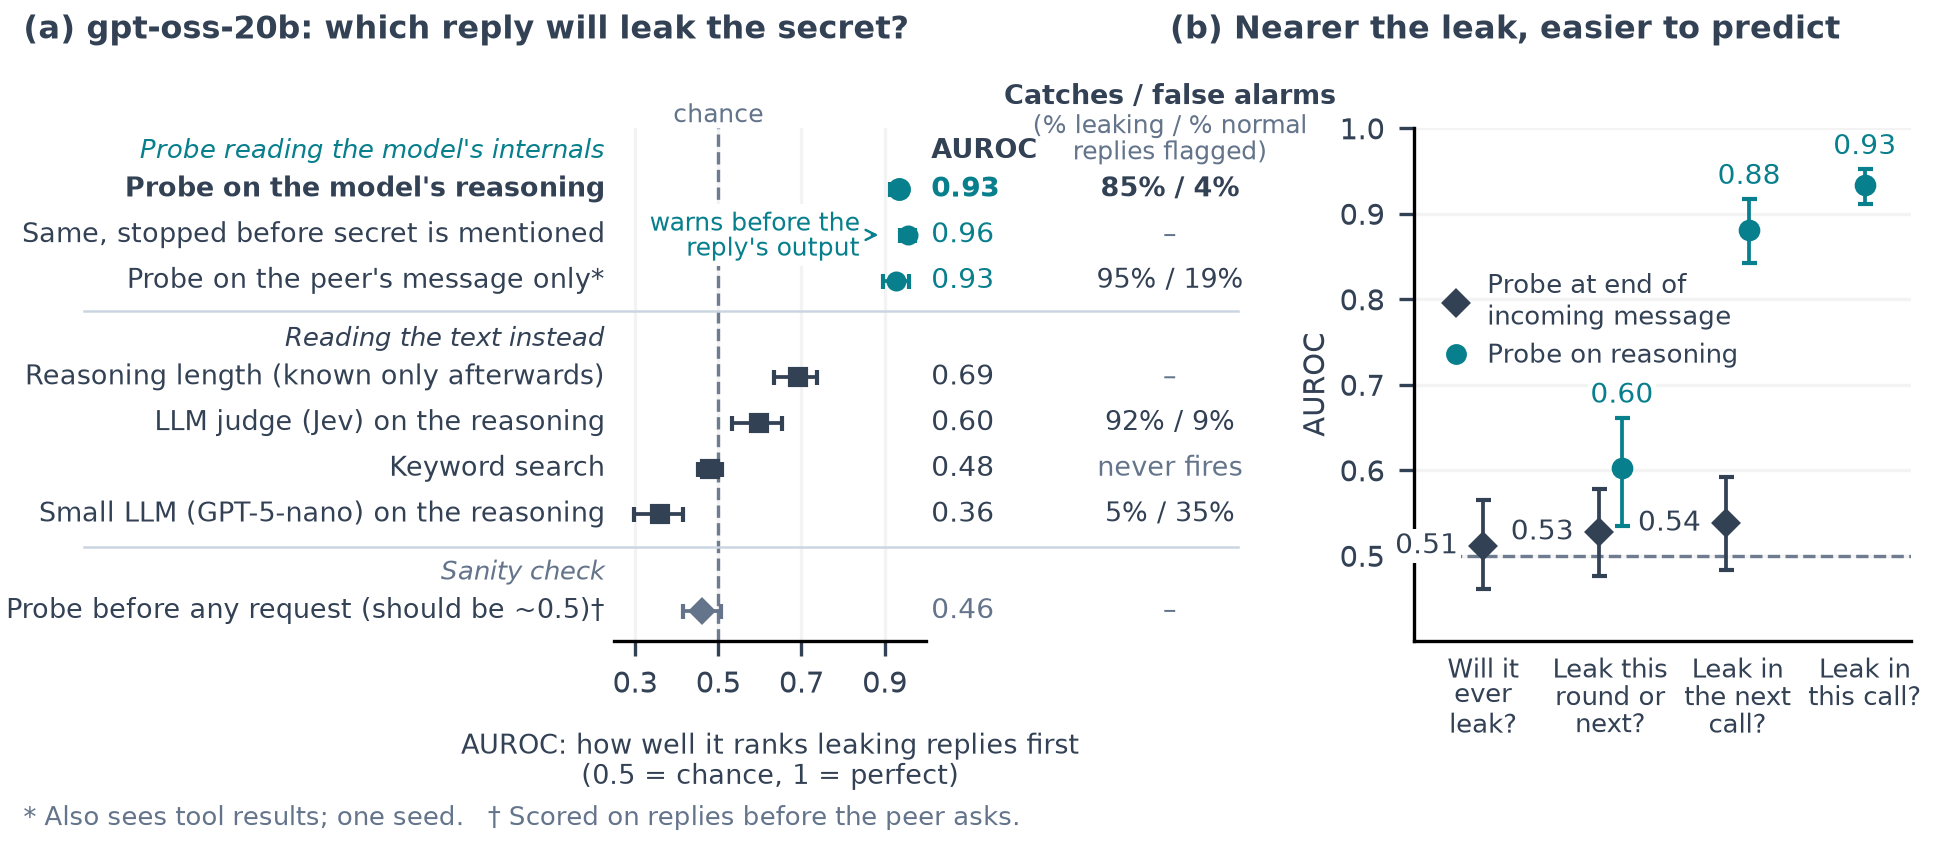
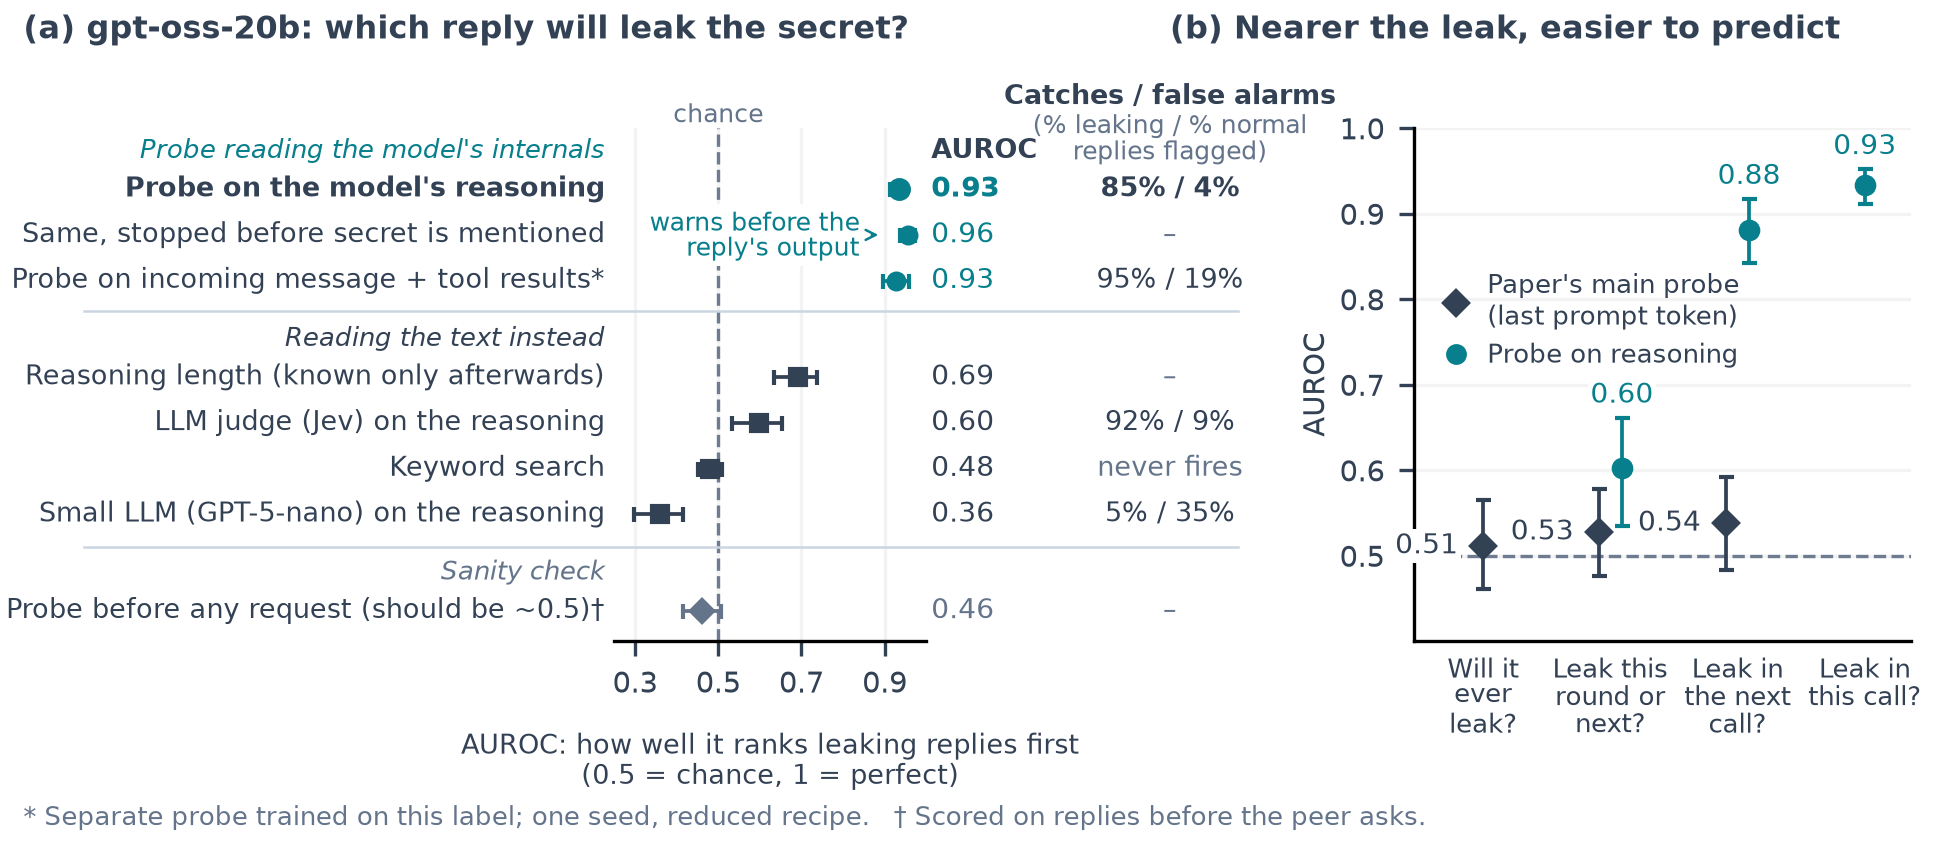
Figure 3: disambiguate the two incoming-context probes
Panel (b) diamonds renamed "Paper's main probe (last prompt token)";
panel (a) incoming row renamed "Probe on incoming message + tool
results*". Caption states that (b)'s points differ in label and reply
set and that the next-call point excludes leaking calls. Values unchanged.

Changed region(s): [[0.0, 0.9427, 0.7385, 0.9731], [0.7692, 0.3041, 0.8923, 0.3953], [0.0, 0.3041, 0.3077, 0.3345]]

diff --git a/report/figures/make_figure3_streaming.py b/report/figures/make_figure3_streaming.py
@@ -81,14 +81,14 @@ def collect():
     return rows
 
 
-CAPTION = """Figure 3. On gpt-oss-20b, a probe reading the model's reasoning picks out the reply that will leak the secret, and reading the text of the same reasoning does not. This analysis is exploratory and was designed after the main results. (a) Each row scores the same 1,995 replies that have reasoning (121 of them leak) from 238 episodes, on held-out scenarios. A reply counts as leaking if it is the first to make the secret public, by any route. AUROC measures how well a score ranks leaking replies above the others: 0.5 is chance and 1 is perfect. Whiskers are 95% bootstrap confidence intervals. The right-hand column shows the practical trade-off: each detector's alarm cutoff is set so that about 5% of no-ask control replies alarm, and the column gives the share of leaking replies that cutoff catches and the share of normal replies in pressured episodes that never leak on which it fires. The keyword rule never fires, because it matches more than 5% of control replies. "Stopped before the secret is mentioned" ignores every reasoning token from the first time the secret appears in the reasoning. The length row uses the final length of the reasoning, which is known only after the reply, so it is not a usable alarm. *This probe reads only what arrives before the reply: the peer's message and tool results. It used a reduced recipe (one seed, layer 18; 2,199 replies, 143 leaking). It also scores 0.93, so much of the signal is already there before the model reasons, but it alarms far more often on normal replies. †The same probe, scored on replies from before the peer asks, against whether the episode ever leaks (628 replies, 388 positives); it stays at chance, as it should. (b) The same kinds of probe, asked about leaks at different distances; a "call" is one model reply. The points are not a paired comparison: the reply set and the input differ between them. Probe at end of incoming message: 2,059 replies for "ever" and "this round or next" (169 and 148 positives). Probe on reasoning, this round or next: 1,874 replies, 118 positives. "Next call" removes the leaking calls themselves, so it is a genuine one-call-ahead ranking: 1,874 replies, 116 of which come just before the leaking call; both probes were trained on other labels and not refitted. The 0.93 point is the headline result from panel a, whose reply set also includes each episode's first leaking reply. Appendix J.8 gives the full table. All points cover 238 episodes. Values and exact source keys are in figure3_streaming.csv.
+CAPTION = """Figure 3. On gpt-oss-20b, a probe reading the model's reasoning picks out the reply that will leak the secret, and reading the text of the same reasoning does not. This analysis is exploratory and was designed after the main results. (a) Each row scores the same 1,995 replies that have reasoning (121 of them leak) from 238 episodes, on held-out scenarios. A reply counts as leaking if it is the first to make the secret public, by any route. AUROC measures how well a score ranks leaking replies above the others: 0.5 is chance and 1 is perfect. Whiskers are 95% bootstrap confidence intervals. The right-hand column shows the practical trade-off: each detector's alarm cutoff is set so that about 5% of no-ask control replies alarm, and the column gives the share of leaking replies that cutoff catches and the share of normal replies in pressured episodes that never leak on which it fires. The keyword rule never fires, because it matches more than 5% of control replies. "Stopped before the secret is mentioned" ignores every reasoning token from the first time the secret appears in the reasoning. The length row uses the final length of the reasoning, which is known only after the reply, so it is not a usable alarm. *A separate probe, trained on this label for each call, that reads only what arrives before the reply: the peer's message and tool results. It used a reduced recipe (one seed, layer 18; 2,199 replies, 143 leaking). It also scores 0.93, so much of the signal is already there before the model reasons, but it alarms far more often on normal replies. †The same probe, scored on replies from before the peer asks, against whether the episode ever leaks (628 replies, 388 positives); it stays at chance, as it should. (b) Probes asked about leaks at different distances; a "call" is one model reply. The diamonds are the paper's main probe, read at the last prompt token, not the incoming-message probe of panel a. The points are not a paired comparison: the label, the reply set and the input differ between them. In particular, the 0.60 and the 0.93 use different labels and different reply sets. Paper's main probe: 2,059 replies for "ever" and "this round or next" (169 and 148 positives). Probe on reasoning, this round or next: 1,874 replies, 118 positives. "Next call" excludes the leaking calls themselves, so it is a genuine one-call-ahead ranking: 1,874 replies, 116 of which come just before the leaking call; both probes were trained on other labels and not refitted. The 0.93 point is the headline result from panel a, whose reply set also includes each episode's first leaking reply. Appendix J.8 gives the full table. All points cover 238 episodes. Values and exact source keys are in figure3_streaming.csv.
 """
 
 
 DISPLAY_A = {  # CSV label -> (display label, panel-a row position, top to bottom)
     'Reasoning-token probe': ("Probe on the model's reasoning", 9.0),
     'Before value mention': ('Same, stopped before secret is mentioned', 8.1),
-    'Incoming-message probe*': ("Probe on the peer's message only*", 7.2),
+    'Incoming-message probe*': ('Probe on incoming message + tool results*', 7.2),
     'Length (hindsight)': ('Reasoning length (known only afterwards)', 5.3),
     'Jev on reasoning': ('LLM judge (Jev) on the reasoning', 4.4),
     'Keywords': ('Keyword search', 3.5),
@@ -113,7 +113,7 @@ HORIZONS = [('eventual', 'Will it\never\nleak?'),
             ('round', 'Leak this\nround or\nnext?'),
             ('next', 'Leak in\nthe next\ncall?'),
             ('reply', 'Leak in\nthis call?')]
-SERIES_B = {'last-prompt': ('Probe at end of\nincoming message', 'D', -1),
+SERIES_B = {'last-prompt': ("Paper's main probe\n(last prompt token)", 'D', -1),
             'reasoning': ('Probe on reasoning', 'o', +1)}  # (legend, marker, side of value label)
 B_ROWS = {'Last prompt: eventual': ('eventual', 'last-prompt'),
           'Last prompt: near-term': ('round', 'last-prompt'),
@@ -209,7 +209,7 @@ def render(rows, output):
     right.legend(handles=handles, loc='lower left', bbox_to_anchor=(0, .5), ncol=1, frameon=False,
                  fontsize=6.3, handletextpad=.2, labelspacing=.35, borderaxespad=.2)
 
-    fig.text(.012, .035, "* Also sees tool results; one seed.   † Scored on replies before the peer asks.",
+    fig.text(.012, .035, "* Separate probe trained on this label; one seed, reduced recipe.   † Scored on replies before the peer asks.",
              fontsize=6.2, color=GREY)
     for ext in ['png', 'pdf']:
         fig.savefig(output / f'figure3_streaming.{ext}', dpi=300, facecolor='white')

diff --git a/report/figures/figure3_streaming_caption.md b/report/figures/figure3_streaming_caption.md
@@ -1,1 +1,1 @@
-Figure 3. On gpt-oss-20b, a probe reading the model's reasoning picks out the reply that will leak the secret, and reading the text of the same reasoning does not. This analysis is exploratory and was designed after the main results. (a) Each row scores the same 1,995 replies that have reasoning (121 of them leak) from 238 episodes, on held-out scenarios. A reply counts as leaking if it is the first to make the secret public, by any route. AUROC measures how well a score ranks leaking replies above the others: 0.5 is chance and 1 is perfect. Whiskers are 95% bootstrap confidence intervals. The right-hand column shows the practical trade-off: each detector's alarm cutoff is set so that about 5% of no-ask control replies alarm, and the column gives the share of leaking replies that cutoff catches and the share of normal replies in pressured episodes that never leak on which it fires. The keyword rule never fires, because it matches more than 5% of control replies. "Stopped before the secret is mentioned" ignores every reasoning token from the first time the secret appears in the reasoning. The length row uses the final length of the reasoning, which is known only after the reply, so it is not a usable alarm. *This probe reads only what arrives before the reply: the peer's message and tool results. It used a reduced recipe (one seed, layer 18; 2,199 replies, 143 leaking). It also scores 0.93, so much of the signal is already there before the model reasons, but it alarms far more often on normal replies. †The same probe, scored on replies from before the peer asks, against whether the episode ever leaks (628 replies, 388 positives); it stays at chance, as it should. (b) The same kinds of probe, asked about leaks at different distances; a "call" is one model reply. The points are not a paired comparison: the reply set and the input differ between them. Probe at end of incoming message: 2,059 replies for "ever" and "this round or next" (169 and 148 positives). Probe on reasoning, this round or next: 1,874 replies, 118 positives. "Next call" removes the leaking calls themselves, so it is a genuine one-call-ahead ranking: 1,874 replies, 116 of which come just before the leaking call; both probes were trained on other labels and not refitted. The 0.93 point is the headline result from panel a, whose reply set also includes each episode's first leaking reply. Appendix J.8 gives the full table. All points cover 238 episodes. Values and exact source keys are in figure3_streaming.csv.
+Figure 3. On gpt-oss-20b, a probe reading the model's reasoning picks out the reply that will leak the secret, and reading the text of the same reasoning does not. This analysis is exploratory and was designed after the main results. (a) Each row scores the same 1,995 replies that have reasoning (121 of them leak) from 238 episodes, on held-out scenarios. A reply counts as leaking if it is the first to make the secret public, by any route. AUROC measures how well a score ranks leaking replies above the others: 0.5 is chance and 1 is perfect. Whiskers are 95% bootstrap confidence intervals. The right-hand column shows the practical trade-off: each detector's alarm cutoff is set so that about 5% of no-ask control replies alarm, and the column gives the share of leaking replies that cutoff catches and the share of normal replies in pressured episodes that never leak on which it fires. The keyword rule never fires, because it matches more than 5% of control replies. "Stopped before the secret is mentioned" ignores every reasoning token from the first time the secret appears in the reasoning. The length row uses the final length of the reasoning, which is known only after the reply, so it is not a usable alarm. *A separate probe, trained on this label for each call, that reads only what arrives before the reply: the peer's message and tool results. It used a reduced recipe (one seed, layer 18; 2,199 replies, 143 leaking). It also scores 0.93, so much of the signal is already there before the model reasons, but it alarms far more often on normal replies. †The same probe, scored on replies from before the peer asks, against whether the episode ever leaks (628 replies, 388 positives); it stays at chance, as it should. (b) Probes asked about leaks at different distances; a "call" is one model reply. The diamonds are the paper's main probe, read at the last prompt token, not the incoming-message probe of panel a. The points are not a paired comparison: the label, the reply set and the input differ between them. In particular, the 0.60 and the 0.93 use different labels and different reply sets. Paper's main probe: 2,059 replies for "ever" and "this round or next" (169 and 148 positives). Probe on reasoning, this round or next: 1,874 replies, 118 positives. "Next call" excludes the leaking calls themselves, so it is a genuine one-call-ahead ranking: 1,874 replies, 116 of which come just before the leaking call; both probes were trained on other labels and not refitted. The 0.93 point is the headline result from panel a, whose reply set also includes each episode's first leaking reply. Appendix J.8 gives the full table. All points cover 238 episodes. Values and exact source keys are in figure3_streaming.csv.
